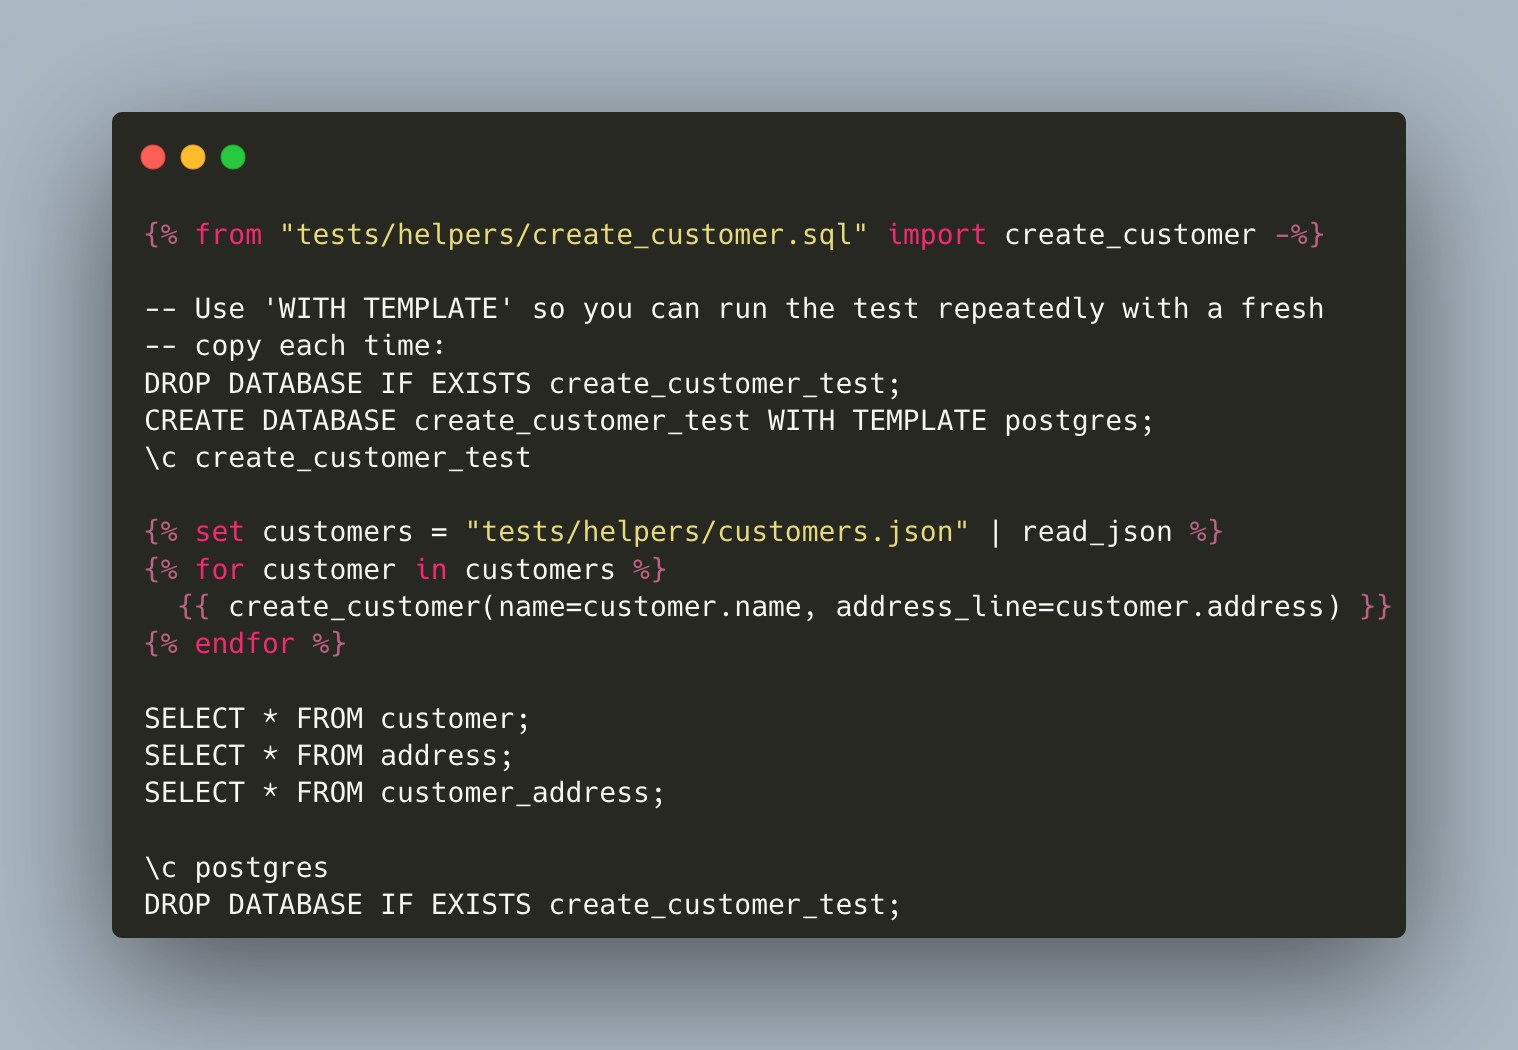
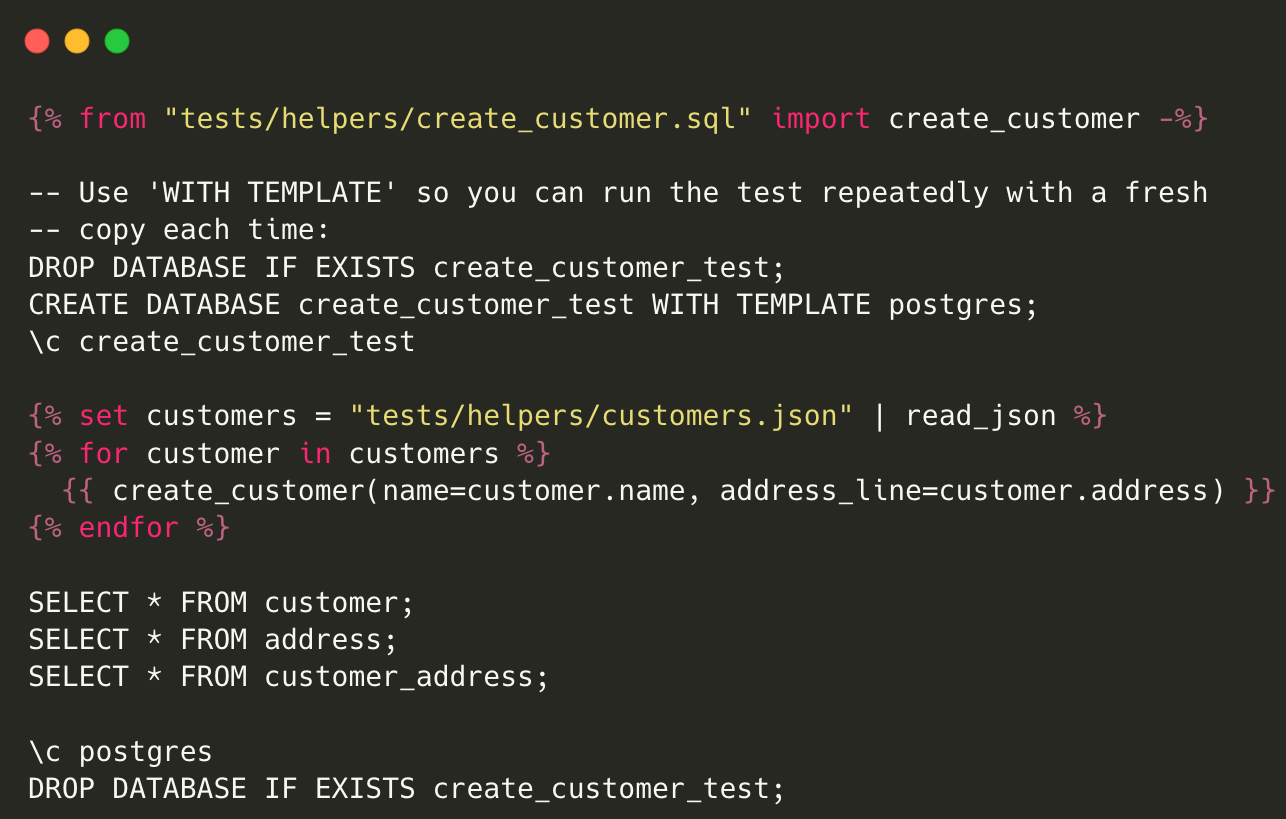
readme reorganisation

diff --git a/README.md b/README.md
@@ -1,26 +1,10 @@
 # Spawn
 
-## Database Migrations, Testing, and Reproducibility
-
-[![License](https://img.shields.io/badge/license-AGPL-blue.svg)](LICENSE)
-[![Docs](https://img.shields.io/badge/docs-spawn.dev-green)](https://docs.spawn.dev)
-
-Spawn lets you maintain functions, views, triggers, and other database logic as normal editable source files, while compiling immutable historical migrations from them. It was built to support developers who like to lean heavily on the database, but find existing tooling lacking in support for doing so.
-
-Other tools require you to copy your view/function/etc into a new migration when updating it, and then edit the copy. This results in hard-to-read pull requests. Spawn lets you keep your snippets in components that you can edit in place, making changes easy to read and review, while keeping reproducibility of old migrations over time via pinning.
-
-This is just the tip of the iceberg. View [features](#features) below to see more of what Spawn enables.
-
-**Spawn in action:** create a component, wire it into a migration, build the SQL, pin it, and apply it.
-
-<img src="docs/src/assets/spawn_in_action.png" width="700" alt="Terminal session showing spawn migration new, a colourised SQL build, spawn migration pin, and spawn migration apply, with the migration status table going from Pending to Applied">
-
-**Powerful tests:** loop over a JSON fixture, reuse a macro to seed each row, and run it against a fresh, ephemeral database. Use the result as your test's expected output.
-
-<img src="docs/src/assets/powerful_tests.png" width="700" alt="SQL test file that creates a fresh ephemeral database, loops over a JSON fixture of customers, and calls a reusable create_customer macro to seed each one">
+<img src="docs/src/assets/powerful_tests_cropped.png" width="700" alt="SQL test file that creates a fresh ephemeral database, loops over a JSON fixture of customers, and calls a reusable create_customer macro to seed each one">
 
 ## Table of Contents
 
+- [Introduction](#introduction)
 - [Installing](#installing)
 - [Quick Start](#quick-start)
 - [Features](#features)
@@ -41,6 +25,27 @@ This is just the tip of the iceberg. View [features](#features) below to see mor
 - [Telemetry](#telemetry)
 - [Contributing](#contributing)
 - [LLM Disclaimer](#llm-disclaimer)
+
+## Introduction
+
+Database Migrations, Testing, and Reproducibility
+
+[![License](https://img.shields.io/badge/license-AGPL-blue.svg)](LICENSE)
+[![Docs](https://img.shields.io/badge/docs-spawn.dev-green)](https://docs.spawn.dev)
+
+Spawn lets you maintain functions, views, triggers, and other database logic as normal editable source files, while compiling immutable historical migrations from them. It was built to support developers who like to lean heavily on the database, but find existing tooling lacking in support for doing so.
+
+Other tools require you to copy your view/function/etc into a new migration when updating it, and then edit the copy. This results in hard-to-read pull requests. Spawn lets you keep your snippets in components that you can edit in place, making changes easy to read and review, while keeping reproducibility of old migrations over time via pinning.
+
+This is just the tip of the iceberg. View [features](#features) below to see more of what Spawn enables.
+
+**Spawn in action:** create a component, wire it into a migration, build the SQL, pin it, and apply it.
+
+<img src="docs/src/assets/spawn_in_action.png" width="700" alt="Terminal session showing spawn migration new, a colourised SQL build, spawn migration pin, and spawn migration apply, with the migration status table going from Pending to Applied">
+
+**Powerful tests:** loop over a JSON fixture, reuse a macro to seed each row, and run it against a fresh, ephemeral database. Use the result as your test's expected output.
+
+<img src="docs/src/assets/powerful_tests_cropped.png" width="700" alt="SQL test file that creates a fresh ephemeral database, loops over a JSON fixture of customers, and calls a reusable create_customer macro to seed each one">
 
 ## Installing
 
